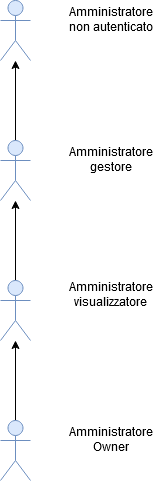
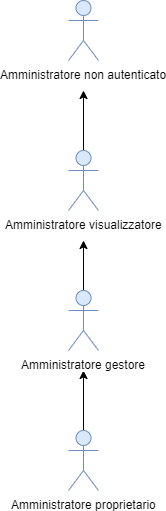
Risolti errori segnalati da Tommaso

diff --git a/DocumentazioneEsterna/AnalisiRequisiti/sezioni/UseCase/UCS_9.tex b/DocumentazioneEsterna/AnalisiRequisiti/sezioni/UseCase/UCS_9.tex
@@ -12,7 +12,7 @@
     \caption{UCS 9 - Gestione degli amministratori}
   \end{figure}
 \begin{itemize}
-\item \textbf{Attori primari:} Amministratore owner
+\item \textbf{Attori primari:} Amministratore proprietario
 %\item \textbf{Attori secondari:}%opzionale
 \item \textbf{Precondizione:} L'amministratore è autenticato presso il sistema.
 \item \textbf{Postcondizione:} L'amministratore ha eseguito l'azione desiderata tra: creazione di un amministratore [UCS 9.1], eliminazione di un amministratore [UCS 9.2] e modifica dei privilegi di un amministratore [UCS 9.3].
@@ -38,7 +38,7 @@
 \end{figure}
 
 \begin{itemize}
-\item \textbf{Attori primari:} Amministratore owner
+\item \textbf{Attori primari:} Amministratore proprietario
 %\item \textbf{Attori secondari:}%opzionale
 \item \textbf{Precondizione:} L'amministratore è autenticato presso il sistema e si trova nella funzionalità di gestione degli amministratori.
 \item \textbf{Postcondizione:} L'amministratore ha creato un account per il nuovo amministratore, il quale è stato registrato presso il sistema.
@@ -61,7 +61,7 @@
 \subsubsection{UCS 9.2 - Eliminazione di un amministratore}%sea level
 
 \begin{itemize}
-\item \textbf{Attori primari:} Amministratore owner
+\item \textbf{Attori primari:} Amministratore proprietario
 %\item \textbf{Attori secondari:}%opzionale
 \item \textbf{Precondizione:} L'amministratore è autenticato presso il sistema e si trova nella funzionalità di gestione degli amministratori.
 \item \textbf{Postcondizione:} L'amministratore ha rimosso dal sistema l'account dell'amministratore identificato dall'e-mail inserita [UCS 9.2.1].
@@ -85,7 +85,7 @@
 
 \subsubsection{UCS 9.2.1 - Inserimento e-mail dell'amministratore da eliminare}%fish level
 \begin{itemize}
-\item \textbf{Attori primari:} Amministratore owner
+\item \textbf{Attori primari:} Amministratore proprietario
 %\item \textbf{Attori secondari:}%opzionale
 \item \textbf{Precondizione:} L'amministratore è nella funzionalità "Eliminazione di un amministratore".
 \item \textbf{Postcondizione:} L'amministratore ha inserito una l'e-mail dell'amministratore da eliminare.
@@ -93,7 +93,7 @@
 
 \subsubsection{UCS 9.3 - Modifica dei privilegi di un amministratore}%sea level
 \begin{itemize}
-\item \textbf{Attori primari:} Amministratore owner
+\item \textbf{Attori primari:} Amministratore proprietario
 %\item \textbf{Attori secondari:}%opzionale
 \item \textbf{Precondizione:} L'amministratore è autenticato presso il sistema e si trova nella funzionalità di gestione degli amministratori.
 \item \textbf{Postcondizione:} L'amministratore ha modificato i privilegi dell'amministratore identificato dalla password inserita [UCS 9.3.1].
@@ -116,7 +116,7 @@
 
 \subsubsection{UCS 9.3.1 - Inserimento e-mail dell'amministratore a cui si vuole modificare i privilegi}%fish level
 \begin{itemize}
-\item \textbf{Attori primari:} Amministratore owner
+\item \textbf{Attori primari:} Amministratore proprietario
 %\item \textbf{Attori secondari:}%opzionale
 \item \textbf{Precondizione:} L'amministratore è nella funzionalità "Modifica dei privilegi di un amministratore".
 \item \textbf{Postcondizione:} L'amministratore ha inserito una l'e-mail dell'amministratore a cui vuole modificare i privilegi.
@@ -125,7 +125,7 @@
 \subsubsection{UCS 9.4 - Annullamento modifiche agli amministratori}%sea level
 
 \begin{itemize}
-\item \textbf{Attori primari:} Amministratore owner
+\item \textbf{Attori primari:} Amministratore proprietario
 %\item \textbf{Attori secondari:}%opzionale
 \item \textbf{Precondizione:} L'amministratore è autenticato presso il sistema e si trova nella funzionalità di gestione degli amministratori.
 \item \textbf{Postcondizione:} L'amministratore ha creato un account per il nuovo amministratore, il quale è stato registrato presso il sistema.

diff --git a/DocumentazioneEsterna/AnalisiRequisiti/sezioni/UseCase/UCS9.tex b/DocumentazioneEsterna/AnalisiRequisiti/sezioni/UseCase/UCS9.tex
@@ -1,6 +1,6 @@
 \subsubsection{UCS 10.1.1 - Visualizzazione messaggio di errore credenziali errate}%sea level
 \begin{itemize}
-\item \textbf{Attori primari:} Amministratore owner
+\item \textbf{Attori primari:} Amministratore proprietario
 %\item \textbf{Attori secondari:}%opzionale
 \item \textbf{Precondizione:} L'amministratore non è autenticato.
 \item \textbf{Postcondizione:} L'amministratore ha la possibilità di reinserire le sue credenziali o di cambiarle [UCS 1.1 e UCS 1.2].
@@ -8,7 +8,7 @@
 
 \subsubsection{UCS 10.9.1 - Visualizzazione messaggio di errore in caso di e-mail già presente durante la registrazione}%sea level
 \begin{itemize}
-    \item \textbf{Attori primari:} Amministratore owner
+    \item \textbf{Attori primari:} Amministratore proprietario
     %\item \textbf{Attori secondari:}%opzionale
     \item \textbf{Precondizione:} L'amministratore non è registrato e ha inserito nel campo indirizzo e-mail un valore già presente nel sistema.
     \item \textbf{Postcondizione:} L'indirizzo e-mail inserito dall'amministratore è già presente nel sistema, pertanto riceve un messaggio di errore esplicativo che lo esorta a scegliere una nuova password.
@@ -16,7 +16,7 @@
 
 \subsubsection{UCS 10.9.2 - Visualizzazione messaggio di errore in caso di password troppo debole}%fish level
 \begin{itemize}
-\item \textbf{Attori primari:} Amministratore owner
+\item \textbf{Attori primari:} Amministratore proprietario
 %\item \textbf{Attori secondari:}%opzionale
 \item \textbf{Precondizione:} L'amministratore non è registrato e ha inserito una password poco sicura.
 \item \textbf{Postcondizione:} La password inserita dall'amministratore risulta essere poco sicura per il sistema, pertanto riceve un messaggio di errore che gli intima di sceglierne una più sicura.
@@ -24,7 +24,7 @@
 
 \subsubsection{UCS 10.9.3 - Visualizzazione messaggio di errore in caso di password e conferma password diverse}%fish level
 \begin{itemize}
-\item \textbf{Attori primari:} Amministratore owner
+\item \textbf{Attori primari:} Amministratore proprietario
 %\item \textbf{Attori secondari:}%opzionale
 \item \textbf{Precondizione:} L'amministratore non è registrato e ha inserito una password diversa dalla conferma password.
 \item \textbf{Postcondizione:} L'amministratore riceve un messaggio di errore che gli intima di reinserire password e conferma password.
@@ -32,7 +32,7 @@
 
 \subsubsection{UCS 10.9.4 - Visualizzazione messaggio di errore in caso di e-mail non registrata nel sistema}%fish level
 \begin{itemize}
-\item \textbf{Attori primari:} Amministratore owner
+\item \textbf{Attori primari:} Amministratore proprietario
 %\item \textbf{Attori secondari:}%opzionale
 \item \textbf{Precondizione:} L'amministratore ha inserito una password per l'eliminazione di un'amministratore [UCS 9.2.1] che non è registrata presso il sistema.
 \item \textbf{Postcondizione:} Viene visualizzato un messaggio di errore esplicativo che suggerisce all'amministratore di rivedere la correttezza della password inserita.

diff --git a/DocumentazioneEsterna/AnalisiRequisiti/sezioni/UseCase/Attori.tex b/DocumentazioneEsterna/AnalisiRequisiti/sezioni/UseCase/Attori.tex
@@ -28,22 +28,22 @@ L'utente si è autenticato presso l'organizzazione tramite LDAP.
 
 
 \paragraph{Amministratore non autenticato}
-Amministratore non ancora autenticato al sistema che ha già le credenziali per autenticarsi.
+Amministratore non ancora autenticato nel sistema che ha già le credenziali per autenticarsi.
 \paragraph{Amministratore autenticato}
-Amministratore che si è autenticato al sistema.
-\paragraph{Amministratore owner}
+Amministratore che si è autenticato nel sistema.
+\paragraph{Amministratore proprietario}
 Amministratore autenticatosi con il ruolo di proprietario dell'organizzazione.
-Si trova al gradino più alto della gerarchia degli amministratori e può compiere le seguenti funzioni:
+Si trova al gradino più alto della gerarchia degli amministratori e dispone delle seguenti funzioni:
 \begin{itemize}
-\item Gestire l'organizzazione
-\item Gestire gli amministratori
+\item Gestire l'organizzazione, ovvero modificarne i dati (come nome, descrizione, ecc.) e le superfici geografiche per il tracciamento degli utenti
+\item Gestire gli amministratori, cioè la loro nomina, rimozione e modifica dei privilegi
 \item Monitorare gli accessi
 \item Eliminare l'organizzazione
 \end{itemize}
-Il proprietario dell'organizzazione può assumere altri amministratori.
+Il proprietario dell'organizzazione può nominare altri amministratori.
 \paragraph{Amministratore gestore}
 Amministratore autenticatosi con il ruolo di gestore. 
-Si trova al secondo gradino della gerarchia degli amministratori e può compiere le seguenti funzioni:
+Si trova al secondo gradino della gerarchia degli amministratori e dispone delle seguenti funzioni:
 \begin{itemize}
 \item Gestire l'organizzazione
 \item Monitorare gli accessi

diff --git a/DocumentazioneEsterna/AnalisiRequisiti/sezioni/UseCase/UCS4.tex b/DocumentazioneEsterna/AnalisiRequisiti/sezioni/UseCase/UCS4.tex
@@ -119,7 +119,7 @@
 
 \subsubsection{UCS 4.2 - Richiesta di eliminazione di un'organizzazione}%sea level
 \begin{itemize}
-\item \textbf{Attori primari:} Amministratore owner
+\item \textbf{Attori primari:} Amministratore proprietario
 \item \textbf{Precondizione:} L'amministratore si trova nella sezione di modifica dei parametri dell'organizzazione.
 \item \textbf{Postcondizione:} L'amministratore ha inviato con successo la richiesta di eliminazione dell'organizzazione.
 \item \textbf{Scenario principale:} L'amministratore spiegherà il motivo per cui vuole eliminare l'organizzazione e quindi confermerà l'invio della richiesta.
@@ -136,7 +136,7 @@
 
 \subsubsection{UCS 4.2.1 - Motivazione della richiesta dell'eliminazione di un'organizzazione}%sea level
 \begin{itemize}
-\item \textbf{Attori primari:} Amministratore owner
+\item \textbf{Attori primari:} Amministratore proprietario
 \item \textbf{Precondizione:} L'amministratore si trova nella sezione di modifica dei parametri dell'organizzazione.
 \item \textbf{Postcondizione:} L'amministratore ha inserito la motivazione della richiesta di eliminazione dell'organizzazione.
 \item \textbf{Scenario principale:} L'amministratore spiegherà il motivo per cui vuole eliminare l'organizzazione.

diff --git a/Glossario/sezioni/Alfabeto/P.tex b/Glossario/sezioni/Alfabeto/P.tex
@@ -23,5 +23,5 @@ La concorrenza è una caratteristica dei sistemi di elaborazione nei quali può 
 \textbf{Python}\\
 È un linguaggio di programmazione ad alto livello, orientato agli oggetti, adatto, tra gli altri usi, a sviluppare applicazioni distribuite, scripting, computazione numerica e system testing. \\ \\
 \textbf{Privilegi}\\
-I privilegi sono fondalmentamente i vari tipi di amministratore. Il privilegio più basso è visualizzatore, poi gestore e infine owner. \\ \\
+I privilegi sono fondalmentamente i vari tipi di amministratore. Il privilegio più basso è visualizzatore, poi gestore e infine proprietario. \\ \\
 \clearpage
